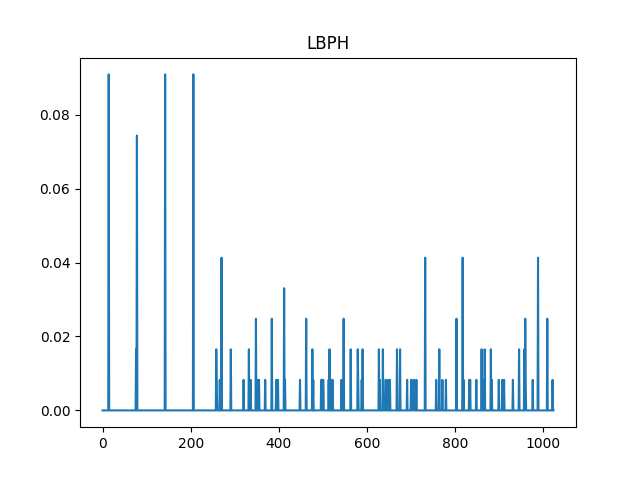
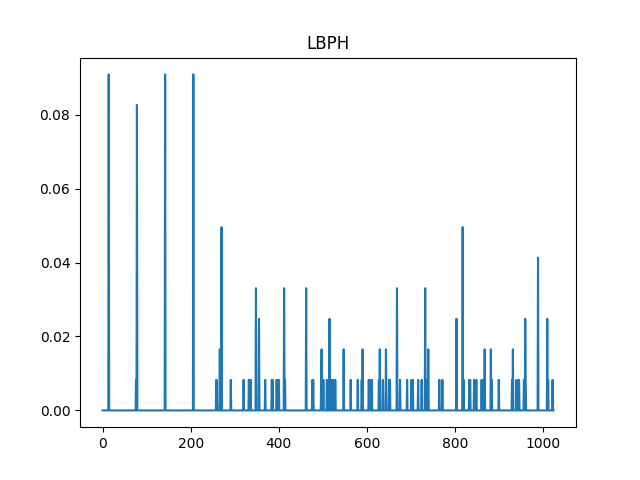
rewrite package

diff --git a/output/report.html b/output/report.html
@@ -8,7 +8,7 @@
 <h1>ENGI 7854 Vehicle Logo Recognition</h1>
 <h2>Guess by system: VolksWagen</h2>
 <h3>Source img</h3>
-<img width="500" height="500" src="/Users/linqiaoxia/Desktop/7854/img_proc_project/ENGI-7854-vehicle-make-recognition/src/resources/testImages/highway_3.jpg">
+<img width="500" height="500" src="/Users/linqiaoxia/Desktop/7854/img_proc_project/ENGI-7854-vehicle-make-recognition/src/resources/testImages/highway_8.jpg">
 <h3>Extracted Logo</h3>
 <img src="/Users/linqiaoxia/Desktop/7854/img_proc_project/ENGI-7854-vehicle-make-recognition/output/logo.jpg">
 <h3>Local Binary pattern</h3>

diff --git a/src/LogoExtractor/__init__.py b/src/LogoExtractor/__init__.py
@@ -3,90 +3,65 @@ from __future__ import division
 import numpy as np
 import cv2
 
-
 # TODO :::: fucking remove this global var. Who the fuck would put this as global var??? silly B
 plate=[]
 
-# TODO ::: rewrite this packages
-
-def HSVfilter(img):
-    imgHSV=cv2.cvtColor(img,cv2.COLOR_BGR2HSV)
-    H,S,V=cv2.split(imgHSV)
-    lowerBlue=np.array([100,100,80])
-    upperBlue=np.array([130,255,255])
-    mask=cv2.inRange(imgHSV,lowerBlue,upperBlue)
-    plateImg=cv2.bitwise_and(img,img,mask=mask)
+def HSVfilter(source):
+    imgHSV=cv2.cvtColor(source,cv2.COLOR_BGR2HSV)
+    lowerBound=np.array([100,100,80])
+    upperBound=np.array([130,255,255])
+    mask=cv2.inRange(imgHSV,lowerBound,upperBound)
     return mask
-
-def process(img):
-    img=cv2.medianBlur(img,5)
-    kernel=np.ones((3,3),np.uint8)
-    sobel = cv2.Sobel(img, cv2.CV_8U, 1, 0, ksize = 3)
-    element1 = cv2.getStructuringElement(cv2.MORPH_RECT, (3, 1))
+def apply(source):
+    element1 = cv2.getStructuringElement(cv2.MORPH_RECT, (3, 3))
     element2 = cv2.getStructuringElement(cv2.MORPH_RECT, (5, 5))
-    dilation = cv2.dilate(sobel, element2, iterations = 1)
-    erosion = cv2.erode(dilation, element1, iterations = 1)
-    dilation2 = cv2.dilate(erosion, element2,iterations = 3)
-    return dilation2
+    img = cv2.dilate(source, element2, iterations = 1)
+    img = cv2.erode(img, element1, iterations = 3)
+    img = cv2.dilate(img, element2, iterations = 3)
+    return img
+
+def process(source):
+    source=cv2.medianBlur(source,5)
+    return apply(source)
 
 def plateDetect(img,img2):
     contours, hierarchy = cv2.findContours(img, cv2.RETR_TREE, cv2.CHAIN_APPROX_SIMPLE)
     for con in contours:
         x,y,w,h=cv2.boundingRect(con)
-        area=w*h
-        ratio=w/h
+        area, ratio =w*h, w/h
         if ratio>2 and ratio<4 and area>=2000 and area<=25000:
-            logo_y1=max(0,int(y-h*3.0))
-            logo_y2=y
-            logo_x1=x
-            logo_x2=x+w
+            logo_y1, logo_y2, logo_x1, logo_x2 =max(0,int(y-h*3.0)),y,x,x+w
             img_logo=img2.copy()
             logo=img_logo[logo_y1:logo_y2,logo_x1:logo_x2]
             cv2.rectangle(img2,(x,y),(x+w,y+h),(255,0,0),2)
             cv2.rectangle(img2,(logo_x1,logo_y1),(logo_x2,logo_y2),(0,255,0),2)
-            global plate
             plate=[x,y,w,h]
-            return logo
+            return logo, plate
 
-
-def logoDetect(img,imgo):
-    imglogo=imgo.copy()
-    img=cv2.cvtColor(img,cv2.COLOR_BGR2GRAY)
-    img=cv2.resize(img,(2*img.shape[1],2*img.shape[0]),interpolation=cv2.INTER_CUBIC)
+def logoDetect(rough_area,image,plate):
+    img=cv2.cvtColor(rough_area,cv2.COLOR_BGR2GRAY)
+    img=cv2.resize(img,(2*img.shape[1], 2*img.shape[0]),interpolation=cv2.INTER_CUBIC)
     ret,img = cv2.threshold(img, 0, 255, cv2.THRESH_BINARY+cv2.THRESH_OTSU)
-    img=cv2.Canny(img,100,200)
-    element1 = cv2.getStructuringElement(cv2.MORPH_RECT, (3, 3))
-    element2 = cv2.getStructuringElement(cv2.MORPH_RECT, (5, 5))
-    img = cv2.dilate(img, element2, iterations = 1)
-    img = cv2.erode(img, element1, iterations = 3)
-    img = cv2.dilate(img, element2, iterations = 3)
-
+    img=cv2.Canny(img, 100,200)
+    img = apply(img)
     contours, hierarchy = cv2.findContours(img, cv2.RETR_TREE, cv2.CHAIN_APPROX_NONE)
-    tema=0
+    sigma=0
     result=[]
-    for con in contours:
-        x,y,w,h=cv2.boundingRect(con)
-        area=w*h
-        ratio=max(w/h,h/w)
-        if area>300 and area<20000 and ratio<2:
-            if area>tema:
-                tema=area
+    for contour in contours:
+        x,y,w,h=cv2.boundingRect(contour)
+        area,ratio = w*h,max(w/h,h/w)
+        if area>400 and area<20000 and ratio<2 and area>sigma:
+                sigma=area
                 result=[x,y,w,h]
                 ratio2=ratio
-    logo2_X=[int(result[0]/2+plate[0]-3),int(result[0]/2+plate[0]+result[2]/2+3)]
-    logo2_Y=[int(result[1]/2+max(0,plate[1]-plate[3]*3.0)-3),int(result[1]/2+max(0,plate[1]-plate[3]*3.0)+result[3]/2)+3]
-    cv2.rectangle(img,(result[0],result[1]),(result[0]+result[2],result[1]+result[3]),(255,0,0),2)
-    cv2.rectangle(imgo,(logo2_X[0],logo2_Y[0]),(logo2_X[1],logo2_Y[1]),(0,0,255),2)
-    print (tema,ratio2,result)
-    logo2=imglogo[logo2_Y[0]:logo2_Y[1],logo2_X[0]:logo2_X[1]]
-
-    return logo2
-
+    logo_X=[int(result[0]/2+plate[0]-3),int(result[0]/2+plate[0]+result[2]/2+3)]
+    logo_Y=[int(result[1]/2+max(0,plate[1]-plate[3]*3.0)-3),int(result[1]/2+max(0,plate[1]-plate[3]*3.0)+result[3]/2)+3]
+    logo=image[logo_Y[0]:logo_Y[1],logo_X[0]:logo_X[1]]
+    return logo
 
 def logoExtraction(srcPath):
     img = cv2.imread(srcPath)
     plateImg = HSVfilter(img)
     plateImg = process(plateImg)
-    logo = plateDetect(plateImg, img)
-    logo2 = logoDetect(logo, img)
-    return logo2
+    rough_area, plate = plateDetect(plateImg, img)
+    return logoDetect(rough_area, img,plate)

diff --git a/main.py b/main.py
@@ -1,6 +1,8 @@
 import sys
 import os
 import webbrowser
+import matplotlib.pyplot as plt
+import matplotlib.image as mpimg
 
 from src.LocalBinaryPatternUtil.Params import Params
 from src.PatternBuilder import PatternBuilder
@@ -17,9 +19,14 @@ histogramPath = where + "/src/resources/lbph.dat"
 params = Params(1, 6, 4, 4)
 
 # TODO replace with testPic later ..
-# testPic = sys.argv[1]
-testPic = where + "/src/resources/testImages/highway_3.jpg"
-# TODO replace with testPic later ..
+testPic = sys.argv[1]
+testPic = where + "/src/resources/testImages/highway_8.jpg" 
+
+# processed pic
+img = cv2.imread(testPic)
+hsv = extractor.HSVfilter(img)
+
+#cv2.imwrite(where + '/output/logo.processed', processed)
 logo = extractor.logoExtraction(testPic)
 
 cv2.imwrite(where + '/output/logo.jpg', logo)
@@ -45,11 +52,7 @@ html = html.replace('extracted_logo', where + '/output/logo.jpg')
 html = html.replace("source_img", testPic)
 # close the file
 report_template.close()
-print (html)
 report = open(where+"/output/report.html", "w")
 report.write(html)
 report.close()
-
-print (html)
-
 webbrowser.open('file://' + os.path.realpath(where+"/output/report.html"))

diff --git a/src/Classifier/__init__.py b/src/Classifier/__init__.py
@@ -4,9 +4,7 @@ import sys
 import src.LocalBinaryPatternUtil as Util
 import matplotlib.pyplot as plt
 
-
 class Classifier:
-
     def __init__(self, cache, params, knownBrandList):
         self.cache = cache
         self.params = params
@@ -22,22 +20,14 @@ class Classifier:
                 minDiff = diff
                 guess = self.cache.index[idx]
                 print('label:%d distance:%f' % (guess, minDiff))
-        # self.printGuess(guess, lbp, histogram)
         return guess, minDiff, lbp, histogram
 
     def printGuess(self, guess, sourceLBP, sourceHistogram, path):
         copy = self.knownBrandList
         new_label = {v: k for k, v in copy.items()}
-
         print('Guess:' + new_label[guess])
-
         plt.figure()
-        # plt.subplot(121)
-        # plt.imshow(sourceLBP, 'gray')
-        #plt.title('LBP')
-        # plt.subplot(122)
         plt.plot(sourceHistogram.flatten())
         plt.title('LBPH')
         plt.savefig(path+"lbph.png")
-        # plt.show()
         return new_label[guess]
